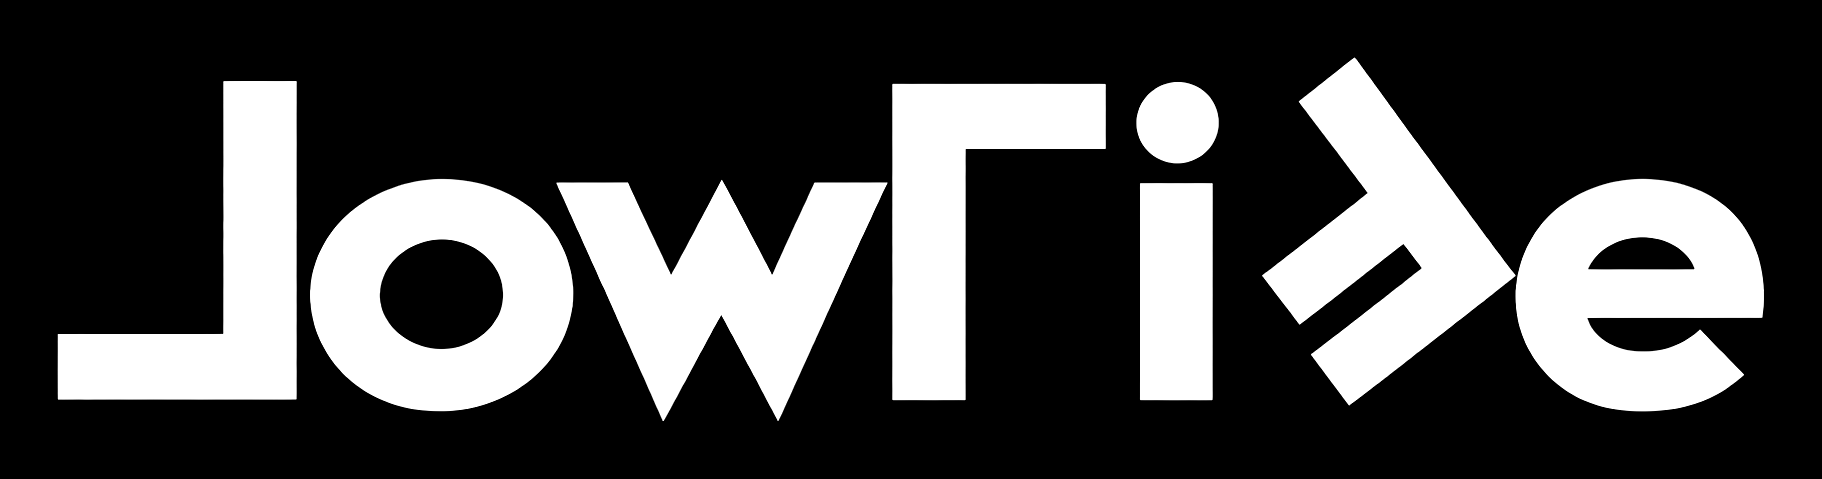
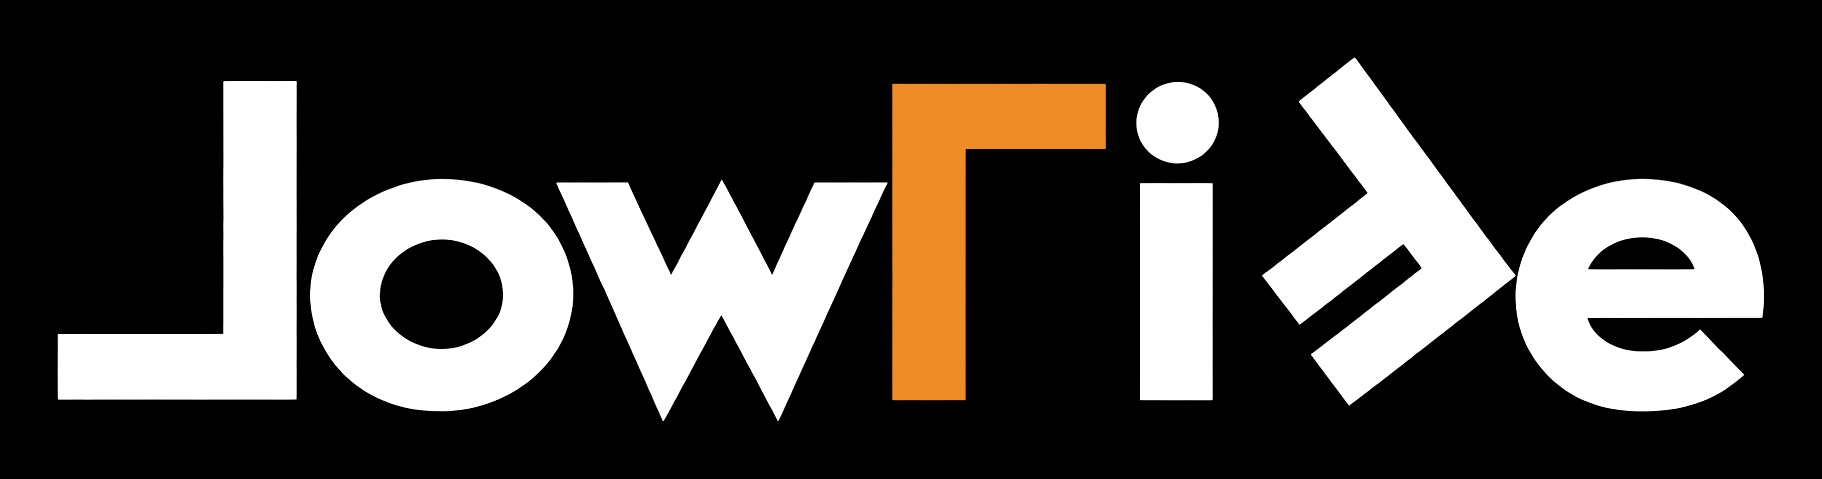
Название: «Γ» в «Life» оранжевая и собрана как в логотипе
- WORDMARK_LETTERS: (буква, преобразование, акцент); «Γ» — та же
  отражённая L, повёрнутая на 180° (как в монограмме ⅃Γ), цвет акцента.
- wordmark_wpf.build_image(): DrawingImage из двух контуров (белые буквы
  + оранжевая «Γ»), масштабируются вместе; окно показывает его в Image.
- make_brand.py красит «Γ» в графике для README в оранжевый (только цвет).

Claude-Session: https://claude.ai/code/session_018AQnYgKn4e5L5GXAf3JkSU

Changed region(s): [[0.4918, 0.1754, 0.6147, 0.8476]]

diff --git a/LowLife.tab/_Themes.panel/About.pushbutton/about.xaml b/LowLife.tab/_Themes.panel/About.pushbutton/about.xaml
@@ -8,8 +8,8 @@
             <StackPanel Orientation="Horizontal" HorizontalAlignment="Center">
                 <Image x:Name="logo_img" Width="72" Height="72" Margin="0,0,20,0"
                        RenderOptions.BitmapScalingMode="HighQuality"/>
-                <Path x:Name="wordmark_path" Height="72" Stretch="Uniform" Fill="White"
-                      VerticalAlignment="Center"/>
+                <Image x:Name="wordmark_img" Height="72" Stretch="Uniform"
+                       VerticalAlignment="Center"/>
             </StackPanel>
         </Border>
         <StackPanel Margin="24,18,24,20">

diff --git a/lib/lowlife/wordmark_wpf.py b/lib/lowlife/wordmark_wpf.py
@@ -4,14 +4,17 @@
 Каждая буква превращается в контур через FormattedText.BuildGeometry,
 отражается/поворачивается вокруг центра своего контура (так «Γ» остаётся
 на месте «L», а не съезжает по высоте строки) и ставится вплотную к
-предыдущей с небольшим зазором. Повёрнутая буква центрируется по высоте
-заглавных. Результат — Geometry для Path (Fill = цвет, Stretch = Uniform).
+предыдущей с небольшим зазором. Повёрнутая на произвольный угол буква
+центрируется по высоте заглавных. Обычные буквы и акцентные (оранжевая «Γ»,
+как в логотипе) собираются в два контура одного DrawingImage — так они
+масштабируются вместе (Image.Stretch = Uniform) и не разъезжаются.
 Только для IronPython внутри Revit (нужны сборки WPF).
 """
 
 from System.Globalization import CultureInfo
 from System.Windows import FlowDirection, FontStretches, FontStyles, FontWeights, Point
-from System.Windows.Media import (Brushes, FillRule, FontFamily, FormattedText, GeometryGroup,
+from System.Windows.Media import (Brushes, BrushConverter, DrawingGroup, DrawingImage, FillRule,
+                                  FontFamily, FormattedText, GeometryDrawing, GeometryGroup,
                                   RotateTransform, ScaleTransform, TransformGroup,
                                   TranslateTransform, Typeface)
 
@@ -29,31 +32,48 @@ def _glyph(ch, typeface):
     return ft.BuildGeometry(Point(0, 0))
 
 
-def build_geometry(letters=None, font_family=None, gap_em=0.05):
+def _transform_for(op, cx, cy):
+    transform = TransformGroup()
+    if op in ("mirror_x", "mirror_x_rot180"):
+        transform.Children.Add(ScaleTransform(-1.0, 1.0, cx, cy))
+    if op == "mirror_x_rot180":
+        transform.Children.Add(RotateTransform(180.0, cx, cy))
+    elif op not in (None, "mirror_x"):
+        transform.Children.Add(RotateTransform(float(op), cx, cy))
+    return transform
+
+
+def build_geometries(letters=None, font_family=None, gap_em=0.05):
+    """(основной контур, акцентный контур) названия — две GeometryGroup
+    в общих координатах."""
     typeface = Typeface(FontFamily(font_family or about.WORDMARK_FONT),
                         FontStyles.Normal, FontWeights.Bold, FontStretches.Normal)
     cap = _glyph(u"L", typeface).Bounds
     cap_cy = cap.Top + cap.Height / 2.0
 
-    word = GeometryGroup()
-    word.FillRule = FillRule.Nonzero
+    main, accent = GeometryGroup(), GeometryGroup()
+    main.FillRule = accent.FillRule = FillRule.Nonzero
     x = 0.0
-    for ch, op in (letters or about.WORDMARK_LETTERS):
+    for ch, op, is_accent in (letters or about.WORDMARK_LETTERS):
         letter = GeometryGroup()
         letter.Children.Add(_glyph(ch, typeface))
         b = letter.Bounds
-        cx, cy = b.Left + b.Width / 2.0, b.Top + b.Height / 2.0
-        transform = TransformGroup()
-        if op == "mirror_x":
-            transform.Children.Add(ScaleTransform(-1.0, 1.0, cx, cy))
-        elif op == "mirror_y":
-            transform.Children.Add(ScaleTransform(1.0, -1.0, cx, cy))
-        elif op:
-            transform.Children.Add(RotateTransform(float(op), cx, cy))
+        transform = _transform_for(op, b.Left + b.Width / 2.0, b.Top + b.Height / 2.0)
         letter.Transform = transform
         tb = letter.Bounds  # уже с учётом отражения/поворота
-        dy = cap_cy - (tb.Top + tb.Height / 2.0) if op not in (None, "mirror_x", "mirror_y") else 0.0
+        rotated = op not in (None, "mirror_x", "mirror_x_rot180")
+        dy = cap_cy - (tb.Top + tb.Height / 2.0) if rotated else 0.0
         transform.Children.Add(TranslateTransform(x - tb.Left, dy))
-        word.Children.Add(letter)
+        (accent if is_accent else main).Children.Add(letter)
         x += tb.Width + gap_em * EM
-    return word
+    return main, accent
+
+
+def build_image(letters=None, font_family=None):
+    """DrawingImage названия для Image.Source: белые буквы + оранжевая «Γ»."""
+    main, accent = build_geometries(letters, font_family)
+    conv = BrushConverter()
+    drawing = DrawingGroup()
+    drawing.Children.Add(GeometryDrawing(conv.ConvertFromString(about.MAIN_COLOR), None, main))
+    drawing.Children.Add(GeometryDrawing(conv.ConvertFromString(about.ACCENT_COLOR), None, accent))
+    return DrawingImage(drawing)

diff --git a/docs/brand/make_brand.py b/docs/brand/make_brand.py
@@ -6,7 +6,8 @@
 Логотип — монограмма «⅃Γ»: зеркальная L из «Low» (белая) и перевёрнутая L
 из «Life» (оранжевая) на чёрном скруглённом квадрате. Название (wordmark) —
 авторская графика `lowlife-wordmark-source.png`; скрипт её не перерисовывает,
-только обрезает поля и чистит до строго чёрного/белого.
+только обрезает поля, чистит до строго чёрного/белого и красит «Γ» из «Life»
+в оранжевый — как в монограмме.
 
 Пишет:
   docs/brand/lowlife-logo.png       512×512 — README
@@ -68,7 +69,36 @@ def wordmark(pad_ratio=0.08):
     x0, y0, x1, y1 = src.point(lambda v: 255 if v > 128 else 0).getbbox()
     pad = int((y1 - y0) * pad_ratio * 2)
     box = (max(0, x0 - pad), max(0, y0 - pad), min(src.width, x1 + pad), min(src.height, y1 + pad))
-    return src.crop(box).convert("RGB")
+    return accent_life_l(src.crop(box))
+
+
+def _column_groups(gray):
+    """Отрезки столбцов [x0, x1), в которых есть белое — по ним делятся буквы."""
+    w, h = gray.size
+    px = gray.load()
+    filled = [any(px[x, y] > 128 for y in range(h)) for x in range(w)]
+    groups, start = [], None
+    for x, f in enumerate(filled + [False]):
+        if f and start is None:
+            start = x
+        elif not f and start is not None:
+            groups.append((start, x))
+            start = None
+    return groups
+
+
+def accent_life_l(gray):
+    """Красит «Γ» в оранжевый. По проекции столбцов буквы делятся на
+    ⅃ | ow (o и w перекрываются) | Γ | i | Fe (F касается e) — «Γ» третья."""
+    groups = _column_groups(gray)
+    assert len(groups) == 5, "не удалось найти буквы названия: {}".format(groups)
+    x0, x1 = groups[2]
+    rgb = Image.merge("RGB", (gray, gray, gray))
+    tint = Image.new("RGB", (x1 - x0, gray.height), ORANGE)
+    # Пиксели буквы: белый → оранжевый, сглаженный край → смесь с чёрным.
+    region = gray.crop((x0, 0, x1, gray.height))
+    rgb.paste(Image.composite(tint, Image.new("RGB", tint.size, BLACK), region), (x0, 0))
+    return rgb
 
 
 def main():

diff --git a/lib/lowlife/about.py b/lib/lowlife/about.py
@@ -64,23 +64,27 @@ def version_text(root=None):
 
 
 # Название в окне «О программе» набирается шрифтом (lowlife.wordmark_wpf),
-# а не картинкой. Буквы — как в авторской графике docs/brand/: отражённая L,
-# o, w, перевёрнутая L (Γ), i, заглавная F, повёрнутая на 135° по часовой, e.
-# Вторая часть пары — преобразование: None, "mirror_x", "mirror_y" или угол
-# поворота в градусах (по часовой, как RotateTransform в WPF).
+# а не картинкой. Буквы — как в авторской графике docs/brand/ и в логотипе:
+# отражённая L (⅃, белая), o, w, она же, повёрнутая на 180° (Γ, оранжевая —
+# как в монограмме), i, заглавная F, повёрнутая на 135° по часовой, e.
+# (буква, преобразование, акцент): преобразование — None, "mirror_x",
+# "mirror_x_rot180" или угол поворота в градусах (по часовой, как
+# RotateTransform в WPF); акцент — красить ли букву цветом ACCENT_COLOR.
 WORDMARK_LETTERS = [
-    (u"L", "mirror_x"),
-    (u"o", None),
-    (u"w", None),
-    (u"L", "mirror_y"),
-    (u"i", None),
-    (u"F", 135),
-    (u"e", None),
+    (u"L", "mirror_x", False),
+    (u"o", None, False),
+    (u"w", None, False),
+    (u"L", "mirror_x_rot180", True),
+    (u"i", None, False),
+    (u"F", 135, False),
+    (u"e", None, False),
 ]
+MAIN_COLOR = u"#FFFFFF"
+ACCENT_COLOR = u"#F08C28"  # оранжевый логотипа (240, 140, 40)
 # Геометрический гротеск, как в графике; Segoe UI — если Century Gothic нет.
 WORDMARK_FONT = u"Century Gothic, Segoe UI"
 
 
 def wordmark_plain_text(letters=None):
     """Буквы названия подряд, без отражений/поворотов («LowLiFe»)."""
-    return u"".join(ch for ch, _ in (letters or WORDMARK_LETTERS))
+    return u"".join(spec[0] for spec in (letters or WORDMARK_LETTERS))

diff --git a/tests/test_about.py b/tests/test_about.py
@@ -57,9 +57,15 @@ def test_wordmark_letters_spell_lowlife():
 
 
 def test_wordmark_transforms_match_artwork():
-    ops = dict((i, op) for i, (_, op) in enumerate(about.WORDMARK_LETTERS))
-    assert ops[0] == "mirror_x"      # ⅃
-    assert ops[3] == "mirror_y"      # Γ
-    assert ops[5] == 135             # повёрнутая F
+    ops = dict((i, op) for i, (_, op, _) in enumerate(about.WORDMARK_LETTERS))
+    assert ops[0] == "mirror_x"          # ⅃
+    assert ops[3] == "mirror_x_rot180"   # Γ — та же ⅃, повёрнутая на 180°, как в логотипе
+    assert ops[5] == 135                 # повёрнутая F
     for i in (1, 2, 4, 6):
         assert ops[i] is None
+
+
+def test_only_life_l_is_accent():
+    accents = [ch for ch, _, accent in about.WORDMARK_LETTERS if accent]
+    assert accents == [u"L"]
+    assert about.WORDMARK_LETTERS[3][2] is True

diff --git a/LowLife.tab/_Themes.panel/About.pushbutton/script.py b/LowLife.tab/_Themes.panel/About.pushbutton/script.py
@@ -28,7 +28,7 @@ class AboutWindow(forms.WPFWindow):
     def __init__(self):
         forms.WPFWindow.__init__(self, os.path.join(HERE, "about.xaml"))
         self.logo_img.Source = _bitmap("logo.png")
-        self.wordmark_path.Data = wordmark_wpf.build_geometry()
+        self.wordmark_img.Source = wordmark_wpf.build_image()
         self.tagline_tb.Text = about.TAGLINE
         self.disciplines_tb.Text = about.DISCIPLINES
         self.version_tb.Text = about.version_text()

diff --git a/CLAUDE.md b/CLAUDE.md
@@ -54,7 +54,7 @@ Library is a separate package `lib/pnotes/` (not `lib/lowlife/`); notes live in 
 
 Pushbutton icons are 96×96 PNGs generated programmatically with Pillow (flat style: soft rounded-square background, blue line-art glyph, occasional orange accent) rather than hand-drawn or fetched — see any prior icon-generation script for the palette/pattern if adding a new button.
 
-Branding lives in `docs/brand/`: the logo is the «⅃Γ» monogram (white mirrored L + orange upside-down L on a black rounded square), generated by `docs/brand/make_brand.py` along with the About button's `icon.png`/`logo.png`. The wordmark (`lowlife-wordmark-source.png`) is the user's own artwork — keep its letters exactly as drawn (the flipped/rotated letters are intentional); the script only crops and cleans it for the README. In the About window the wordmark is set in a font, not shown as an image: `about.WORDMARK_LETTERS` lists the letters and their transforms (mirrored L, o, w, upside-down L, i, capital F rotated 135° clockwise, e) and `wordmark_wpf.build_geometry()` builds a WPF `Geometry` from the font's glyph outlines (Century Gothic Bold, falling back to Segoe UI). The first ribbon panel (`_Themes.panel`, titled «LowLife») starts with the About button; `_Themes.panel` is not in `panel_themes.THEMES`, so it stays visible under every theme.
+Branding lives in `docs/brand/`: the logo is the «⅃Γ» monogram (white mirrored L + orange upside-down L on a black rounded square), generated by `docs/brand/make_brand.py` along with the About button's `icon.png`/`logo.png`. The wordmark (`lowlife-wordmark-source.png`) is the user's own artwork — keep its letters exactly as drawn (the flipped/rotated letters are intentional); the script only crops and cleans it for the README. In the About window the wordmark is set in a font, not shown as an image: `about.WORDMARK_LETTERS` lists the letters, their transforms and accent flag (mirrored L, o, w, the same mirrored L rotated 180° = «Γ» in orange like the monogram, i, capital F rotated 135° clockwise, e) and `wordmark_wpf.build_image()` builds a WPF `DrawingImage` from the font's glyph outlines (Century Gothic Bold, falling back to Segoe UI). `make_brand.py` likewise tints the «Γ» of the README artwork orange (colour only, shapes untouched). The first ribbon panel (`_Themes.panel`, titled «LowLife») starts with the About button; `_Themes.panel` is not in `panel_themes.THEMES`, so it stays visible under every theme.
 
 ---
 
@@ -114,4 +114,4 @@ pyRevit устанавливает расширения, добавленные 
 
 Иконки кнопок — это PNG 96×96, сгенерированные программно через Pillow (плоский стиль: мягкий скруглённый фон, синий силуэт-иконка, изредка оранжевый акцент), а не нарисованные вручную или взятые откуда-то ещё — при добавлении новой кнопки ориентируйтесь на палитру/паттерн любого из предыдущих скриптов генерации иконок.
 
-Фирменная графика — в `docs/brand/`: логотип — монограмма «⅃Γ» (белая зеркальная L и оранжевая перевёрнутая L на чёрном скруглённом квадрате), её вместе с `icon.png`/`logo.png` кнопки «О программе» генерирует `docs/brand/make_brand.py`. Название (`lowlife-wordmark-source.png`) — авторская графика пользователя: буквы оставлять ровно в том положении, как нарисованы (перевёрнутые/повёрнутые буквы — задумка); скрипт её только обрезает и чистит для README. В окне «О программе» название набрано шрифтом, а не картинкой: `about.WORDMARK_LETTERS` — буквы и их преобразования (отражённая L, o, w, перевёрнутая L, i, заглавная F, повёрнутая на 135° по часовой, e), `wordmark_wpf.build_geometry()` собирает из контуров букв шрифта WPF-`Geometry` (Century Gothic Bold, при отсутствии — Segoe UI). Первая панель ленты (`_Themes.panel`, заголовок «LowLife») начинается с кнопки «О программе»; `_Themes.panel` нет в `panel_themes.THEMES`, поэтому она видна при любой теме.
+Фирменная графика — в `docs/brand/`: логотип — монограмма «⅃Γ» (белая зеркальная L и оранжевая перевёрнутая L на чёрном скруглённом квадрате), её вместе с `icon.png`/`logo.png` кнопки «О программе» генерирует `docs/brand/make_brand.py`. Название (`lowlife-wordmark-source.png`) — авторская графика пользователя: буквы оставлять ровно в том положении, как нарисованы (перевёрнутые/повёрнутые буквы — задумка); скрипт её только обрезает и чистит для README. В окне «О программе» название набрано шрифтом, а не картинкой: `about.WORDMARK_LETTERS` — буквы, их преобразования и признак акцента (отражённая L, o, w, та же отражённая L, повёрнутая на 180°, = «Γ» оранжевым, как в монограмме, i, заглавная F, повёрнутая на 135° по часовой, e), `wordmark_wpf.build_image()` собирает из контуров букв шрифта WPF-`DrawingImage` (Century Gothic Bold, при отсутствии — Segoe UI). `make_brand.py` так же красит «Γ» в графике для README в оранжевый (только цвет, формы не трогает). Первая панель ленты (`_Themes.panel`, заголовок «LowLife») начинается с кнопки «О программе»; `_Themes.panel` нет в `panel_themes.THEMES`, поэтому она видна при любой теме.

diff --git a/lib/README.md b/lib/README.md
@@ -17,16 +17,19 @@ from lowlife.geometry import get_point
 коммит прямо из файлов `.git` (HEAD → `refs/heads/…` или `packed-refs`,
 detached HEAD — хеш в самом HEAD) и возвращает `(ветка, хеш)` или `None`;
 `version_text()` — строка «ветка @ 1a2b3c4» либо «неизвестна».
-`WORDMARK_LETTERS`/`WORDMARK_FONT` — как набирать название шрифтом: буквы и
-их преобразования (`"mirror_x"`, `"mirror_y"` или угол поворота по часовой).
+`WORDMARK_LETTERS`/`WORDMARK_FONT`/`MAIN_COLOR`/`ACCENT_COLOR` — как набирать
+название шрифтом: буквы, их преобразования (`"mirror_x"`, `"mirror_x_rot180"`
+или угол поворота по часовой) и признак акцента (оранжевая «Γ», как в логотипе).
 Без Revit API, покрыт `tests/test_about.py`.
 
 ## wordmark_wpf.py
-`build_geometry(letters=None, font_family=None, gap_em=0.05)` — название
-LowLife как WPF-`Geometry` из контуров букв шрифта (`FormattedText.BuildGeometry`):
-каждая буква отражается/поворачивается вокруг центра своего контура, повёрнутая
-центрируется по высоте заглавных, буквы ставятся вплотную с зазором `gap_em`.
-Используется окном «О программе» (`Path.Data`, `Stretch="Uniform"`). Только IronPython/WPF.
+`build_geometries(letters=None, font_family=None, gap_em=0.05)` — название
+LowLife как пара WPF-`GeometryGroup` (обычные буквы, акцентные) из контуров букв
+шрифта (`FormattedText.BuildGeometry`): каждая буква отражается/поворачивается
+вокруг центра своего контура, повёрнутая на угол — центрируется по высоте
+заглавных, буквы ставятся вплотную с зазором `gap_em`. `build_image()` — то же
+как `DrawingImage` (белые буквы + оранжевая «Γ») для `Image.Source` окна
+«О программе». Только IronPython/WPF.
 
 ## geometry.py
 Геометрия элементов Revit, не привязанная к конкретной дисциплине.
